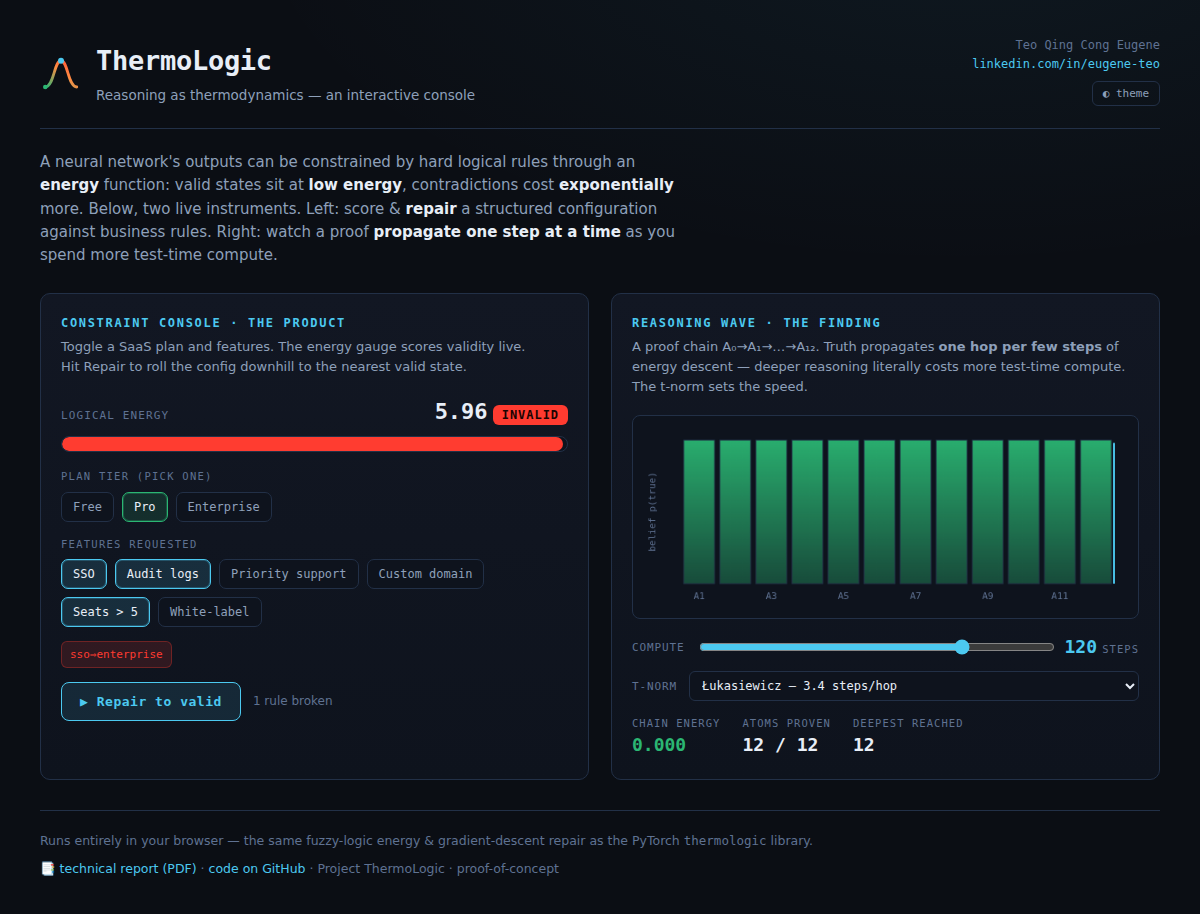
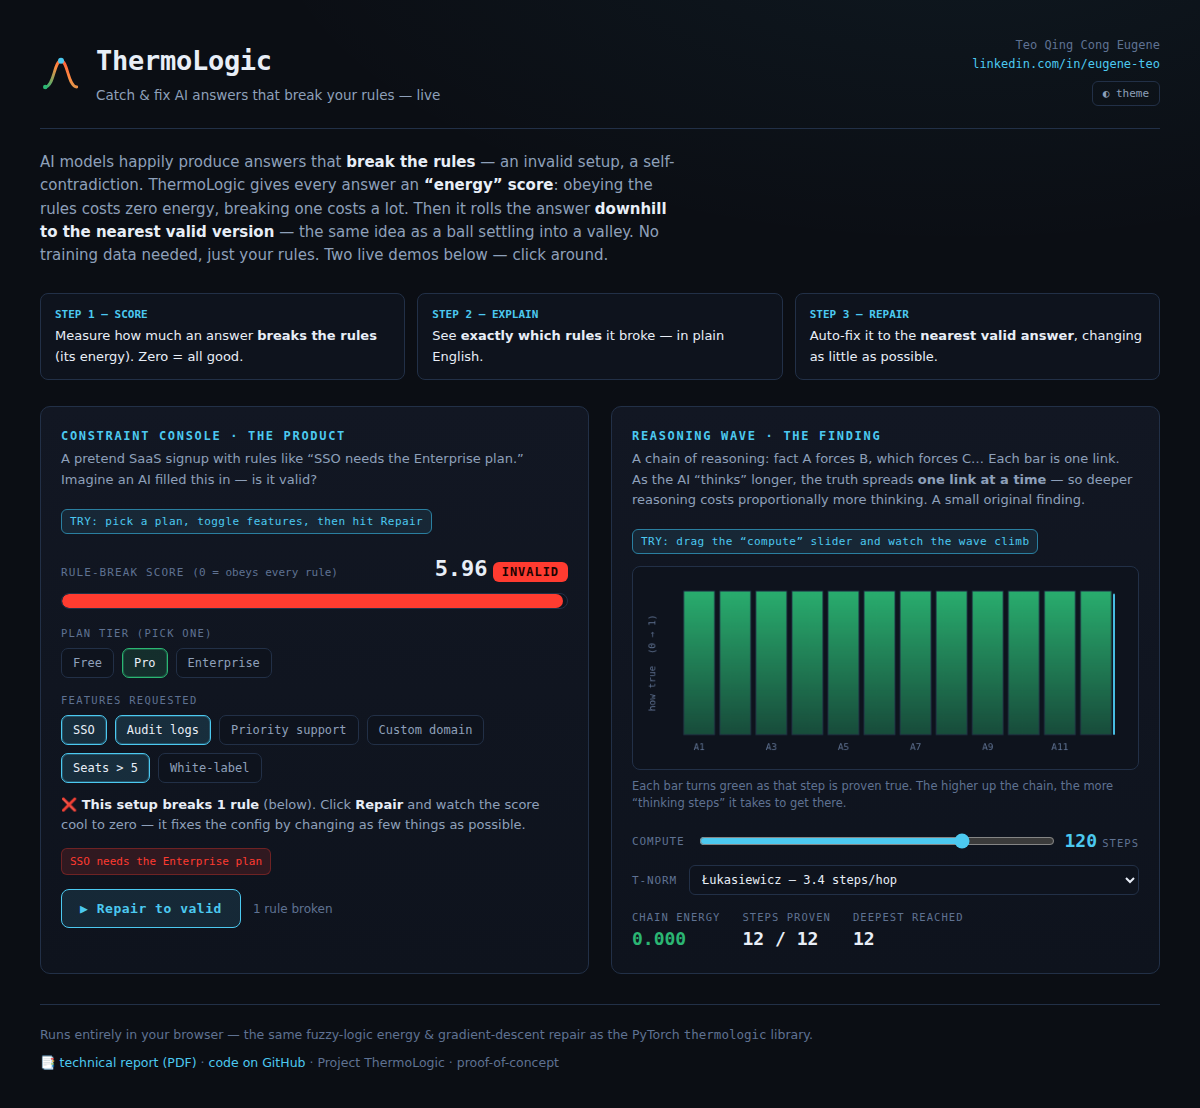
Make the playground self-explaining for a cold (non-technical) visitor
The demo assumed too much for LinkedIn traffic. Rewrote the copy plain-first
while keeping the instrument aesthetic:
- Tagline: "Catch & fix AI answers that break your rules — live"
- Lead: ball-settling-in-a-valley analogy instead of "energy function / test-time
  compute"; a 3-step SCORE / EXPLAIN / REPAIR strip
- Constraint Console: "a pretend SaaS signup" framing, a TRY cue, gauge relabelled
  "RULE-BREAK SCORE (0 = obeys every rule)", human-readable violation chips
  ("SSO needs the Enterprise plan" with the formal name as a tooltip), and a live
  plain-English ✅/❌ explanation line
- Reasoning Wave: plain chain-of-reasoning description + TRY cue + hint; axis
  relabelled "how true (0 → 1)" and stat "atoms proven" -> "steps proven"
- Refreshed OG preview image and hosted artifact

Verified: renders in both themes, zero console errors, repair -> 0.00, wave 12/12.

Claude-Session: https://claude.ai/code/session_01SkjfN7oRi4n3mEL8D34DiA

diff --git a/index.html b/index.html
@@ -115,6 +115,17 @@
   footer { margin-top: 30px; padding-top: 20px; border-top: 1px solid var(--line); color: var(--faint); font-size: 12.5px; display: flex; flex-wrap: wrap; gap: 8px 20px; justify-content: space-between; }
   footer a { color: var(--cyan); text-decoration: none; }
   .theme-btn { font-family: var(--mono); font-size: 11px; background: none; border: 1px solid var(--line); color: var(--muted); border-radius: 6px; padding: 5px 10px; cursor: pointer; }
+  .howto { display: grid; grid-template-columns: repeat(3, 1fr); gap: 12px; margin: 0 0 26px; }
+  @media (max-width: 640px) { .howto { grid-template-columns: 1fr; } }
+  .step { background: var(--panel-2); border: 1px solid var(--line); border-radius: 8px; padding: 12px 14px; }
+  .step .n { font-family: var(--mono); font-size: 11px; color: var(--cyan); font-weight: 700; }
+  .step .t { font-size: 13px; color: var(--ink); margin-top: 3px; }
+  .step .t b { color: var(--ink); }
+  .try { font-family: var(--mono); font-size: 11px; letter-spacing: .04em; color: var(--cyan); background: rgba(76,201,240,0.1); border: 1px solid var(--cyan-dim); border-radius: 6px; padding: 3px 8px; display: inline-block; margin-bottom: 12px; }
+  .explain { font-size: 13px; color: var(--muted); margin: 12px 0 2px; min-height: 20px; line-height: 1.5; }
+  .explain b { color: var(--ink); }
+  .hint { font-size: 11.5px; color: var(--faint); margin-top: 8px; }
+  .chip .why { opacity: .75; }
   @media (prefers-reduced-motion: reduce) { * { transition: none !important; } }
 </style>
 </head>
@@ -132,7 +143,7 @@
       </svg>
       <div>
         <h1>ThermoLogic</h1>
-        <div class="tagline">Reasoning as thermodynamics — an interactive console</div>
+        <div class="tagline">Catch &amp; fix AI answers that break your rules — live</div>
       </div>
     </div>
     <div class="byline">
@@ -142,21 +153,28 @@
   </header>
 
   <p class="lead">
-    A neural network's outputs can be constrained by hard logical rules through an <b>energy</b> function:
-    valid states sit at <b>low energy</b>, contradictions cost <b>exponentially</b> more. Below, two live
-    instruments. Left: score &amp; <b>repair</b> a structured configuration against business rules.
-    Right: watch a proof <b>propagate one step at a time</b> as you spend more test-time compute.
+    AI models happily produce answers that <b>break the rules</b> — an invalid setup, a self-contradiction.
+    ThermoLogic gives every answer an <b>“energy” score</b>: obeying the rules costs zero energy, breaking one
+    costs a lot. Then it rolls the answer <b>downhill to the nearest valid version</b> — the same idea as a ball
+    settling into a valley. No training data needed, just your rules. Two live demos below — click around.
   </p>
+
+  <div class="howto" aria-hidden="false">
+    <div class="step"><div class="n">STEP 1 — SCORE</div><div class="t">Measure how much an answer <b>breaks the rules</b> (its energy). Zero = all good.</div></div>
+    <div class="step"><div class="n">STEP 2 — EXPLAIN</div><div class="t">See <b>exactly which rules</b> it broke — in plain English.</div></div>
+    <div class="step"><div class="n">STEP 3 — REPAIR</div><div class="t">Auto-fix it to the <b>nearest valid answer</b>, changing as little as possible.</div></div>
+  </div>
 
   <div class="grid">
     <!-- ============ CONSTRAINT CONSOLE ============ -->
     <section class="panel" aria-labelledby="p1">
       <h2 id="p1">Constraint Console · the product</h2>
-      <p class="desc" id="cfgDesc">Toggle a SaaS plan and features. The energy gauge scores validity live. Hit&nbsp;Repair to roll the config downhill to the nearest valid state.</p>
+      <p class="desc" id="cfgDesc">A pretend SaaS signup with rules like “SSO needs the Enterprise plan.” Imagine an AI filled this in — is it valid?</p>
+      <span class="try">TRY: pick a plan, toggle features, then hit Repair</span>
 
       <div class="gauge">
         <div class="gauge-row">
-          <span class="gauge-label">logical energy</span>
+          <span class="gauge-label">rule-break score <span style="text-transform:none;letter-spacing:0">(0 = obeys every rule)</span></span>
           <span><span class="readout" id="cfgEnergy">0.00</span> <span class="status ok" id="cfgStatus">VALID</span></span>
         </div>
         <div class="gauge-track"><div class="gauge-fill" id="cfgFill"></div></div>
@@ -167,6 +185,7 @@
       <div class="grouplabel">Features requested</div>
       <div class="toggles" id="featToggles"></div>
 
+      <p class="explain" id="cfgExplain" aria-live="polite"></p>
       <div class="violations" id="cfgViolations" aria-live="polite"></div>
 
       <div class="actions">
@@ -178,9 +197,11 @@
     <!-- ============ REASONING WAVE ============ -->
     <section class="panel" aria-labelledby="p2">
       <h2 id="p2">Reasoning Wave · the finding</h2>
-      <p class="desc">A proof chain A₀→A₁→…→A₁₂. Truth propagates <b>one hop per few steps</b> of energy descent — deeper reasoning literally costs more test-time compute. The t-norm sets the speed.</p>
+      <p class="desc">A chain of reasoning: fact&nbsp;A forces&nbsp;B, which forces&nbsp;C… Each bar is one link. As the AI “thinks” longer, the truth spreads <b>one link at a time</b> — so deeper reasoning costs proportionally more thinking. A small original finding.</p>
+      <span class="try">TRY: drag the “compute” slider and watch the wave climb</span>
 
       <div class="wave-canvas-wrap"><canvas id="waveCanvas" width="900" height="330"></canvas></div>
+      <p class="hint">Each bar turns green as that step is proven true. The higher up the chain, the more “thinking steps” it takes to get there.</p>
 
       <div class="controls">
         <label for="stepSlider">compute</label>
@@ -197,7 +218,7 @@
       </div>
       <div class="stat-row">
         <div class="stat"><div class="k">chain energy</div><div class="v" id="waveEnergy">—</div></div>
-        <div class="stat"><div class="k">atoms proven</div><div class="v" id="waveProven">0 / 12</div></div>
+        <div class="stat"><div class="k">steps proven</div><div class="v" id="waveProven">0 / 12</div></div>
         <div class="stat"><div class="k">deepest reached</div><div class="v" id="waveDepth">0</div></div>
       </div>
     </section>
@@ -268,15 +289,15 @@ const LABEL = {plan_free:"Free",plan_pro:"Pro",plan_enterprise:"Enterprise",sso:
 const idx = a => ATOMS.indexOf(a);
 const L=(a,neg=false)=>({atom:idx(a),neg});
 const CRULES = [
-  {ante:[L("plan_free")],cons:L("plan_pro",true),name:"free⇒¬pro"},
-  {ante:[L("plan_free")],cons:L("plan_enterprise",true),name:"free⇒¬enterprise"},
-  {ante:[L("plan_pro")],cons:L("plan_enterprise",true),name:"pro⇒¬enterprise"},
-  {ante:[L("sso")],cons:L("plan_enterprise"),name:"sso⇒enterprise"},
-  {ante:[L("white_label")],cons:L("plan_enterprise"),name:"white_label⇒enterprise"},
-  {ante:[L("audit_logs")],cons:L("plan_free",true),name:"audit_logs⇒¬free"},
-  {ante:[L("priority_support")],cons:L("plan_free",true),name:"support⇒¬free"},
-  {ante:[L("custom_domain")],cons:L("plan_free",true),name:"custom_domain⇒¬free"},
-  {ante:[L("seats_gt_5")],cons:L("plan_free",true),name:"seats>5⇒¬free"},
+  {ante:[L("plan_free")],cons:L("plan_pro",true),name:"free⇒¬pro",why:"Only one plan tier at a time"},
+  {ante:[L("plan_free")],cons:L("plan_enterprise",true),name:"free⇒¬enterprise",why:"Only one plan tier at a time"},
+  {ante:[L("plan_pro")],cons:L("plan_enterprise",true),name:"pro⇒¬enterprise",why:"Only one plan tier at a time"},
+  {ante:[L("sso")],cons:L("plan_enterprise"),name:"sso⇒enterprise",why:"SSO needs the Enterprise plan"},
+  {ante:[L("white_label")],cons:L("plan_enterprise"),name:"white_label⇒enterprise",why:"White-label needs the Enterprise plan"},
+  {ante:[L("audit_logs")],cons:L("plan_free",true),name:"audit_logs⇒¬free",why:"Audit logs aren’t on the Free plan"},
+  {ante:[L("priority_support")],cons:L("plan_free",true),name:"support⇒¬free",why:"Priority support isn’t on the Free plan"},
+  {ante:[L("custom_domain")],cons:L("plan_free",true),name:"custom_domain⇒¬free",why:"Custom domain isn’t on the Free plan"},
+  {ante:[L("seats_gt_5")],cons:L("plan_free",true),name:"seats>5⇒¬free",why:"Free plan is capped at 5 seats"},
 ];
 let cfg = ATOMS.map(()=>0);
 cfg[idx("plan_pro")]=1; cfg[idx("sso")]=1; cfg[idx("audit_logs")]=1; cfg[idx("seats_gt_5")]=1;
@@ -308,7 +329,7 @@ function renderCfg(){
   const T=TNORMS.lukasiewicz;
   const p=cfg.map(v=>v);
   const e=energy(p,CRULES,T);
-  const viol=perRuleViolations(p,CRULES,T);
+  const violRules=CRULES.filter(r=>ruleSat(p,r,T)<0.5);
   document.getElementById("cfgEnergy").textContent=e.toFixed(2);
   const fill=document.getElementById("cfgFill");
   fill.style.width=Math.min(100, 6+e/6*94)+"%"; fill.style.background=heatColor(e);
@@ -316,9 +337,13 @@ function renderCfg(){
   const ok=e<1e-3;
   st.textContent=ok?"VALID":"INVALID"; st.className="status "+(ok?"ok":"bad");
   const vc=document.getElementById("cfgViolations"); vc.innerHTML="";
-  viol.forEach(v=>{const c=document.createElement("span");c.className="chip";c.textContent=v;vc.appendChild(c);});
+  violRules.forEach(r=>{const c=document.createElement("span");c.className="chip";c.title=r.name;c.textContent=r.why;vc.appendChild(c);});
+  const ex=document.getElementById("cfgExplain");
+  if(ok){ ex.innerHTML='<b>✅ This setup obeys every rule.</b> Nothing to fix.'; }
+  else { ex.innerHTML='<b>❌ This setup breaks '+violRules.length+' rule'+(violRules.length>1?'s':'')+
+    '</b> (below). Click <b>Repair</b> and watch the score cool to zero — it fixes the config by changing as few things as possible.'; }
   document.getElementById("repairBtn").disabled=ok;
-  document.getElementById("repairNote").textContent=ok?"already valid — nothing to repair":viol.length+" rule"+(viol.length>1?"s":"")+" broken";
+  document.getElementById("repairNote").textContent=ok?"already valid — nothing to repair":violRules.length+" rule"+(violRules.length>1?"s":"")+" broken";
 }
 document.getElementById("repairBtn").onclick=()=>{
   const T=TNORMS.lukasiewicz;
@@ -374,7 +399,7 @@ function drawWave(step){
   // axis labels
   ctx.fillStyle=css("--faint"); ctx.font="11px ui-monospace, monospace"; ctx.textAlign="center";
   for(let d=1;d<=K;d+=(K>10?2:1)){ ctx.fillText("A"+d, padL+bw*(d-0.5), H-8); }
-  ctx.save(); ctx.translate(12,padT+gh/2); ctx.rotate(-Math.PI/2); ctx.fillText("belief p(true)",0,0); ctx.restore();
+  ctx.save(); ctx.translate(12,padT+gh/2); ctx.rotate(-Math.PI/2); ctx.fillText("how true  (0 → 1)",0,0); ctx.restore();
   let proven=0, deepest=0;
   for(let d=1;d<=K;d++){
     const v=p[d]; if(v>0.5){proven++; deepest=d;}
